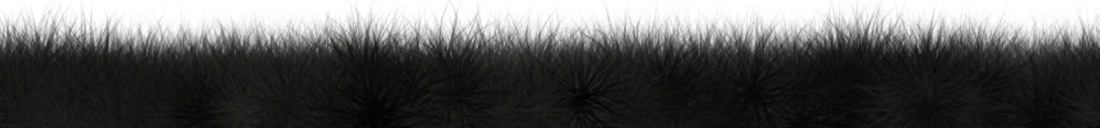
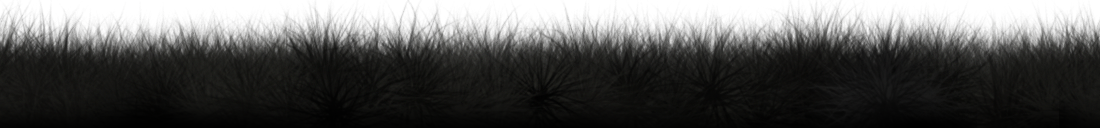
Rearranged footer for cross browser compatibility

diff --git a/themes/leggy/css/layout.css b/themes/leggy/css/layout.css
@@ -5,11 +5,11 @@
 body {
   margin:0; 
   padding:0 0 10px 0;
-  background:#f7f7f7 url(../images/tile.png) ;
+  background:#000;
 }
   #second_body{
     width:100%;
-    /* background:url(../images/legs_background2.png) 50% -30px no-repeat; */
+    background:#f7f7f7 url(../images/tile.png);
   }
   #top_bar{
     width:100%;
@@ -25,9 +25,9 @@ body {
     }
   #site_wrapper {
     margin:0 auto;
-    padding:0 0 75px 0;
+    padding: 0;
     width:970px;
-    min-height:515px;
+    min-height:415px;
   }
   
 #main_wrapper {
@@ -58,12 +58,11 @@ body {
     
   .secondary_content {
     width:30%;
-    margin-bottom:30px;
     float:right;
   }
 
 #content_bottom {
-  margin:0 auto 130px auto;
+  margin:0 auto 30px auto;
   width:970px;
 }
 
@@ -72,9 +71,8 @@ body {
   width:100%;
   height:30px;
   overflow:hidden;
-  position:absolute; 
   bottom:0;
-  padding-top:110px;
+  padding-top:95px;
 }
   #footer .inner{
     margin:0 auto;

diff --git a/themes/leggy/css/node_homepage.css b/themes/leggy/css/node_homepage.css
@@ -3,9 +3,9 @@
  */
 
 /* Overrides */ 
-#second_body{
-  width:100%;
+#home_banner{
   background:url(../images/home_bg.png) 50% 45px no-repeat;
+  width:100%;
 }
 #top_bar #site-name a,
 #top_bar #site-name a:hover {

diff --git a/themes/leggy/css/form.css b/themes/leggy/css/form.css
@@ -41,7 +41,7 @@ form input.form-submit {
   
   form input.form-button:hover, 
   form input.form-submit:hover {
-    background: #EF483B;
+    background: #ff3300;
     cursor: pointer;
     }
 

diff --git a/themes/leggy/css/node.css b/themes/leggy/css/node.css
@@ -1,7 +1,4 @@
 /* Node */
-#main_wrapper {
-  padding-bottom:30px;
-}
 .node-teaser div.fieldgroup {
   margin: 0;
   padding:0 0 1.5em 0;

diff --git a/themes/leggy/css/section_index.css b/themes/leggy/css/section_index.css
@@ -1,6 +1,3 @@
-.primary_content {
-  padding-bottom:40px;
-}
 .page_title {
   margin:0;
   padding-top:15px;
